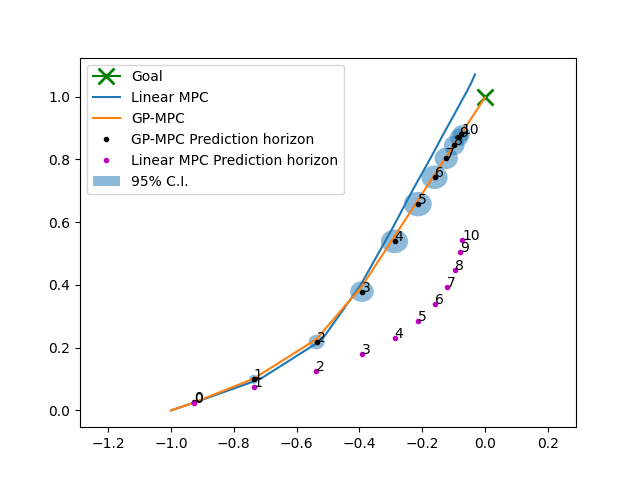
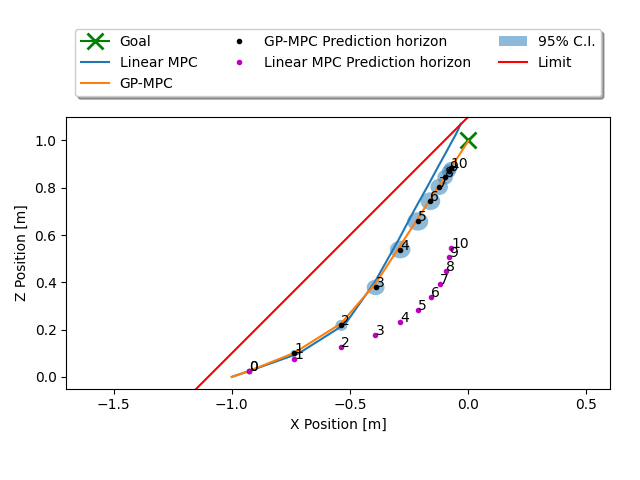
minor updates

diff --git a/experiments/annual_reviews/figure6/gp_mpc_experiment_hexarotor.py b/experiments/annual_reviews/figure6/gp_mpc_experiment_hexarotor.py
@@ -24,7 +24,7 @@ def plot_xz_comparison_diag_constraint(prior_run,
     """
     state_inds = [0,2]
     goal = [0, 1]
-    ax = plot_2D_comparison_with_prior(state_inds, prior_run, run, goal, init_ind, dir=dir)
+    fig, ax = plot_2D_comparison_with_prior(state_inds, prior_run, run, goal, init_ind, dir=dir)
     limit_vals = np.array([[-2.1, -1.0],
                            [2.0, 3.1]])
     ax.plot(limit_vals[:,0], limit_vals[:,1], 'r-', label='Limit')
@@ -38,6 +38,7 @@ def plot_xz_comparison_diag_constraint(prior_run,
     ax.set_ylim([-0.05, 1.1])
     ax.set_box_aspect(0.5)
     plt.tight_layout()
+    fig.savefig("/home/erl/repos/journal_zhichao/safe-control-gym/figures/hexarotor_gpmpc.png")
 
 
 def plot_2D_comparison_with_prior(state_inds,
@@ -105,8 +106,7 @@ def plot_2D_comparison_with_prior(state_inds,
     ax.set_aspect('equal')
     ax.axis('equal')
     ax.legend()
-    fig.savefig("/home/erl/repos/journal_zhichao/safe-control-gym/figures/hexarotor_gpmpc.png")
-    return ax
+    return fig, ax
 
 
 def add_2d_cov_ellipse(position,
